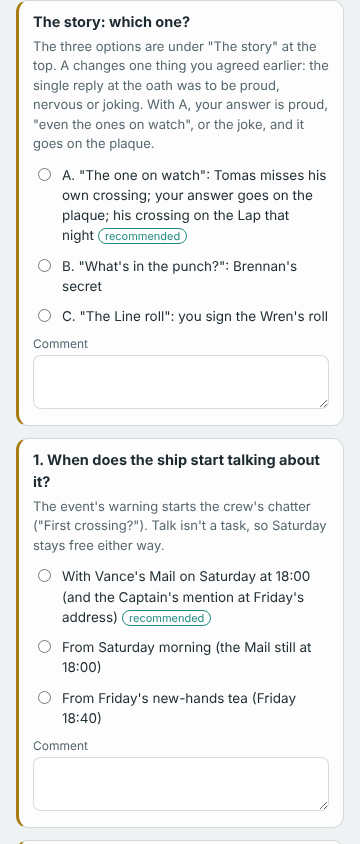
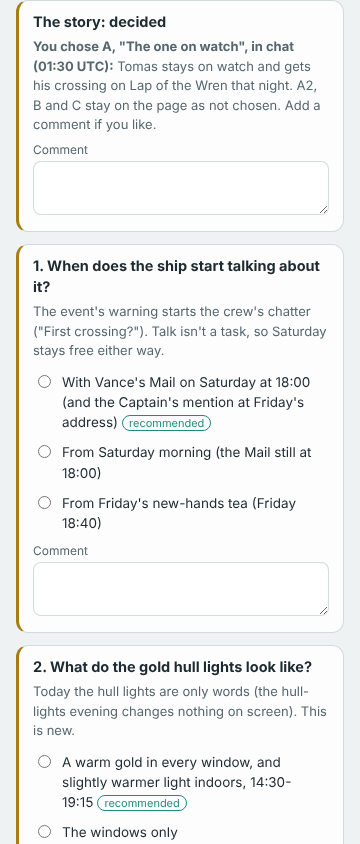
Crossing the Line plan v2: ER2 PASS; line-q9 decided by the user in chat (A, The one on watch); A2, B, C kept as not chosen; the page asks q1-q8
Claude-Session: https://claude.ai/code/session_01GpiqZ9jCYbS9XTNPF8adHr

diff --git a/plans/event-line-plan.html b/plans/event-line-plan.html
@@ -76,14 +76,14 @@ blockquote{margin:6px 0;padding:6px 12px;border-left:3px solid var(--gold);font-
 <li><b>The story:</b> Tomas, your bunkmate, is the other newest hand, and he's on watch through the whole crossing. He misses his own Line. You can take him a mug, and that night the crew give him his crossing on Lap of the Wren.</li>
 <li><b>18:00-19:15, the mess:</b> the Line supper takes the Sunday table's place: the dish the crew voted for, plus Brennan's pudding. Up to about 60.</li>
 <li><b>Monday:</b> the plaque with your words, your Line certificate on your shelf, and the crew retelling it all.</li>
-<li><b>About 6 build turns</b>, switched off until you've reviewed it. <b>9 questions</b> for you, each with a recommended answer (section 8).</li>
+<li><b>About 6 build turns</b>, switched off until you've reviewed it. <b>8 questions</b> for you, each with a recommended answer (section 8). You've already chosen the story.</li>
 </ul>
 </div>
 
 <h2>The story</h2>
 <p>Each option has a beginning, a middle where your one choice matters, and a payoff. All three use crew already aboard, and none touches the later chapters of anyone's personal story.</p>
 <details open>
-<summary>A. "The one on watch" (recommended)</summary>
+<summary>A. "The one on watch" (your choice, 01:30)</summary>
 <p>It comes straight from the ship's rota. Tomas, your bunkmate, arrived just before you, and on Sunday he's on watch on Deck 2 from 08:51 to 17:00. Someone has to watch the ship as she crosses, so he'll miss his own Line.</p>
 <ul>
 <li><b>Saturday evening, wherever he is.</b> Tomas spends it in the mess and the garden, then climbing on the rec deck, then bed at about 22:45. The moment finds him wherever you meet him, or at his bedtime in Bunk 1. He can't settle: <i>"I'm on watch tomorrow. All day. My first Line, and I'll be watching a corridor screen."</i> You can:
@@ -112,7 +112,7 @@ Then the punch. If you helped carry it up, Brennan has already told you one of i
 </ul>
 </details>
 <details>
-<summary>A2. The same, but Tomas comes to the ceremony</summary>
+<summary>A2. The same, but Tomas comes to the ceremony (not chosen)</summary>
 <ul>
 <li><b>Saturday:</b> the same evening moment, but his worry is standing up in front of everyone, not missing it.</li>
 <li><b>Sunday 14:40:</b> the Captain sends for him (<i>"I asked the watch to spare you for ten minutes"</i>). A Watch hand comes down to cover his post, and Tomas stands beside you in the front row. One more answer joins the three: <i>"We'll answer together."</i> It still goes on the plaque.</li>
@@ -121,7 +121,7 @@ Then the punch. If you helped carry it up, Brennan has already told you one of i
 </ul>
 </details>
 <details>
-<summary>B. "What's in the punch?"</summary>
+<summary>B. "What's in the punch?" (not chosen)</summary>
 <ul>
 <li><b>Sunday morning:</b> carrying the punch up, Brennan tells you one ingredient and swears you to secrecy.</li>
 <li><b>All afternoon:</b> the crew try to get it out of you. At the supper you keep the secret, tell everyone, or make up something worse.</li>
@@ -130,7 +130,7 @@ Then the punch. If you helped carry it up, Brennan has already told you one of i
 </ul>
 </details>
 <details>
-<summary>C. "The Line roll"</summary>
+<summary>C. "The Line roll" (not chosen)</summary>
 <ul>
 <li><b>Saturday:</b> Commander Vance asks you to bring the Wren's Line roll up from stores. Every first-timer since she launched has signed it.</li>
 <li><b>The ceremony:</b> each first-timer signs it, and you choose the line beside your name.</li>
@@ -138,7 +138,7 @@ Then the punch. If you helped carry it up, Brennan has already told you one of i
 <li><b>Weaker:</b> quiet, and nobody else's story is in it.</li>
 </ul>
 </details>
-<p><b>Why A:</b> it's true to the ship's own rota, a friend wants something he can't have, your answer goes on the plaque in front of everyone, it pays off the same evening, and it still works if you miss the ceremony.</p>
+<p><b>You chose A</b> (in chat, 01:30). <b>Why it was recommended:</b> it's true to the ship's own rota, a friend wants something he can't have, your answer goes on the plaque in front of everyone, it pays off the same evening, and it still works if you miss the ceremony.</p>
 <p class="sub"><b>Crew react within about 5 ship minutes of the horn,</b> so the first things they say are about the gold pulse, the gold windows and the walk to the plaza (<i>"Did you feel that? The whole deck went gold."</i>). Talk about the punch and your answer waits until the ceremony is over at 15:15.</p>
 
 <h2>1. The day at a glance</h2>
@@ -252,14 +252,8 @@ Then the punch. If you helped carry it up, Brennan has already told you one of i
 <form id="answers" data-collection="answers" data-doc="event-line-plan" onsubmit="return false">
 
 <div class="q" data-qid="line-q9">
-<h3>The story: which one?</h3>
-<p class="why">The options are under "The story" at the top. In A, Tomas missing his own ceremony is on purpose; A2 is the version where he comes. A changes one thing you agreed earlier: the single reply at the oath was to be proud, nervous or joking. With A, your answer is proud, "even the ones on watch", or the joke, and it goes on the plaque.</p>
-<fieldset><legend>Story question</legend>
-<label class="opt"><input type="radio" name="line-q9" value="a"><span>A. "The one on watch": Tomas misses his own crossing; your answer goes on the plaque; his crossing on the Lap that night<span class="recd">recommended</span></span></label>
-<label class="opt"><input type="radio" name="line-q9" value="a2"><span>A2. The same, but Tomas comes: a Watch hand covers his post, and he stands beside you (a smaller story; no mug run or Lap payoff)</span></label>
-<label class="opt"><input type="radio" name="line-q9" value="b"><span>B. "What's in the punch?": Brennan's secret</span></label>
-<label class="opt"><input type="radio" name="line-q9" value="c"><span>C. "The Line roll": you sign the Wren's roll</span></label>
-</fieldset>
+<h3>The story: decided</h3>
+<p class="why"><b>You chose A, "The one on watch", in chat (01:30 UTC):</b> Tomas stays on watch and gets his crossing on Lap of the Wren that night. A2, B and C stay on the page as not chosen. Add a comment if you like.</p>
 <label class="cl" for="line-q9-c">Comment</label><textarea id="line-q9-c" name="line-q9-comment"></textarea>
 </div>
 

diff --git a/plans/event-line-plan.md b/plans/event-line-plan.md
@@ -1,4 +1,4 @@
-# Crossing the Line: the event plan (version 2, ER2's 12 fixes and the story reworked)
+# Crossing the Line: the event plan (version 2: ER2 PASS; the story decided)
 
 Event planner EP2 (session_01GpiqZ9jCYbS9XTNPF8adHr), 2026-10-21. Branch `claude/event-plan-line`, from claude/integration 0.64.6 (675588c). Reports to lead 22 (session_01BGQCZLK6gYTnqu6mwZ61jB). **Planning only: the game is unchanged.**
 
@@ -22,7 +22,7 @@ Event planner EP2 (session_01GpiqZ9jCYbS9XTNPF8adHr), 2026-10-21. Branch `claude
 ## The story
 Each option has a beginning, a middle where your one choice matters, and a payoff. All three use crew already aboard, and none touches an arc's later beats.
 
-### Option A (recommended): "The one on watch"
+### Option A: "The one on watch" (the user's choice, decided in chat 01:30 UTC via lead 22)
 Built from the game's own rota (ER2's find): Tomas Lind, your bunkmate in Bunk 1, is the newest hand after you. He's on watch at a standing watch post in Deck 2's lift lobby (`2-watch-6`) from 08:51 to 17:00 on Sunday, so he'll miss his own crossing. Someone has to watch the ship as she crosses.
 
 - **Beginning, Saturday evening (Day 6), wherever Tomas is.** His Saturday runs the mess and the garden 19:14-22:05, climbing on the rec deck 22:08-22:40, then bed at 22:46 (ER2's S1). His plans don't move: the moment follows him from 19:00 until bed (it opens when you're near him), or at the latest at his bedtime in Bunk 1 (about 22:45). He can't settle: "I'm on watch tomorrow. All day. My first Line, and I'll be watching a corridor screen." One moment, three replies:
@@ -61,7 +61,7 @@ Built from the game's own rota (ER2's find): Tomas Lind, your bunkmate in Bunk 1
 
   About 30-35 lines from EW1.
 
-### Option A2: "The one on watch", but Tomas comes to the ceremony
+### Option A2: "The one on watch", but Tomas comes to the ceremony (not chosen)
 Asked for by the user (via lead 22, 01:22): is Tomas missing his own ceremony intended? Yes, in A, and this is the other way.
 - **Saturday:** the same evening moment, but his worry is standing up in front of everyone, not missing it.
 - **Sunday 14:40:** the Captain sends for him ("I asked the watch to spare you for ten minutes"). A Watch hand on shift comes down from Deck 2 to cover his post for 15 minutes; Nakamura or Ueda, named by his plan. Tomas stands beside you in the front row.
@@ -74,13 +74,13 @@ Asked for by the user (via lead 22, 01:22): is Tomas missing his own ceremony in
   - EW1's guard rails stay: his nerves are about speaking only, never about exams or Holt.
 - **Turns:** the same, about 6.
 
-### Option B: "What's in the punch?"
+### Option B: "What's in the punch?" (not chosen)
 - **Beginning, Sunday morning.** Carrying the punch up, Brennan tells you one ingredient and swears you to secrecy.
 - **Middle.** All afternoon the crew try to get it out of you. At the supper you choose: keep the secret, tell everyone, or make up something worse.
 - **Payoff, Monday.** The crew's guesses go round, and Brennan's card stays locked in the galley (or the truth is out).
 - **Weaker:** funny, but only Brennan's story, and the oath isn't part of it. (In A it's a small side thread.)
 
-### Option C: "The Line roll"
+### Option C: "The Line roll" (not chosen)
 - **Beginning, Saturday.** Commander Vance asks you to bring the Wren's Line roll up from stores; every first-timer since she launched has signed it.
 - **Middle.** At the ceremony each first-timer signs it, and you choose the line beside your name.
 - **Payoff, Monday.** The roll hangs by the plaque.
@@ -245,7 +245,7 @@ The build number is the build master's.
 11. **Tomas's day must be as the plan says** (ER2's S2 and S4, in the new shape): at his post (`2-watch-6`) 08:51-17:00 and never pulled away, reachable for the mug, and on the Lap at 20:30 (`EV_DAY_DRESS` brings him); bigevents_check shows all three. His post is a standing watch post in Deck 2's lift lobby (ER2's R2-2); the mug stop finds him from his plan. Tomas must be at his post, not on his break, when you bring the mug (15:15-17:00): day_check Day 7.
 
 ## Questions for the user (each with a recommended answer; ids `line-q1` to `line-q9`, plus `line-general`)
-- **line-q9, the story:** recommended: A, "The one on watch" (Tomas misses his own crossing; your answer goes on the plaque; his crossing on the Lap that night). Others: A2, the same but Tomas comes (a Watch hand covers his post; smaller story, no Lap payoff); B, "What's in the punch?"; C, "The Line roll". A changes v3.2's "one reply (proud, nervous, joking)".
+- **line-q9, the story: DECIDED (the user, in chat, 01:30 UTC): A**, Tomas stays on watch and gets his crossing on the Lap. It was recommended: A, "The one on watch" (Tomas misses his own crossing; your answer goes on the plaque; his crossing on the Lap that night). Others: A2, the same but Tomas comes (a Watch hand covers his post; smaller story, no Lap payoff); B, "What's in the punch?"; C, "The Line roll". A changes v3.2's "one reply (proud, nervous, joking)".
 1. **When does the ship start talking about it?** Recommended: with Vance's Mail on Saturday at 18:00 (and the Captain's mention at Friday's address). Others: Saturday morning (talk only, so your free day stays free); Friday's new-hands tea.
 2. **What do the gold hull lights look like?** Recommended: a warm gold in every window and slightly warmer light indoors, 14:30-19:15. Others: windows only; also gold light strips along the promenade (a few more draw calls).
 3. **The horn (the game has no sound):** Recommended: a felt moment: one soft gold pulse of the lights, crew stop and look up, a one-line notice. Others: also add the game's first sound, one horn note (sound is new work: a mute switch, phones on silent); the banner only.
@@ -277,3 +277,4 @@ The build number is the build master's.
 12. **Small things:** the warning comment (EW1); `SHORT_FRIDAY` in "Needed first"; L6's design-doc note on `commend: false`. L2 is gated on F0b.
 - **ER2's story fixes S1-S4 (round 1b, on 1.1):** S1 the Saturday moment follows Tomas until his bedtime (the Mail at about 22:50); S2, S3 and the watch:1 slot no longer apply (Tomas stays at his post in v2, and "eighty people" is gone); S4 becomes bigevents_check showing Tomas at his post through the ceremony and on the Lap at 20:30.
 - **ER2's round 2 (aafb364, on 221c492):** R2-1 was already in 54e36dc (the Saturday moment follows Tomas); R2-2 his post is `2-watch-6` in Deck 2's lift lobby, and the mug stop finds him from his plan; R2-3 Zeke and Pell get a pull of 1 on the Lap (checked), and the Captain walks it with no line; R2-4 `galley-line` defined, and 50-60 marked as an estimate (45 or more is fine).
+- **ER2's verdict on c9d92db: PASS** (claude/event-plan-review-2). The story was decided by the user in chat (A, 01:30); q1-q8 are on the page.
